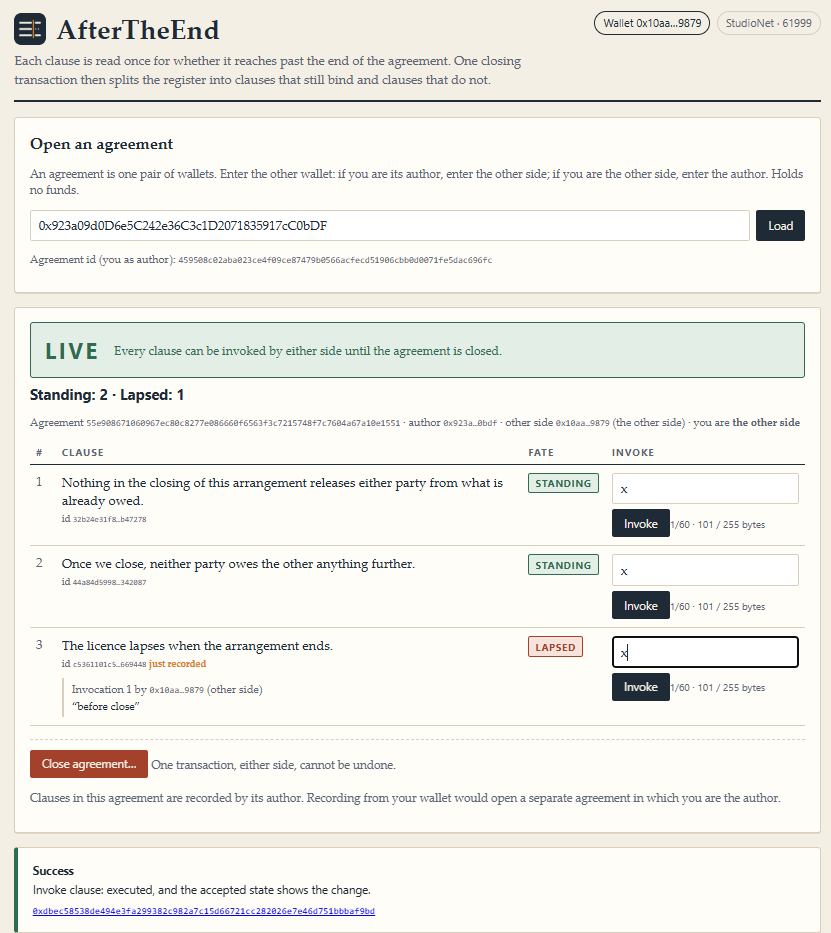
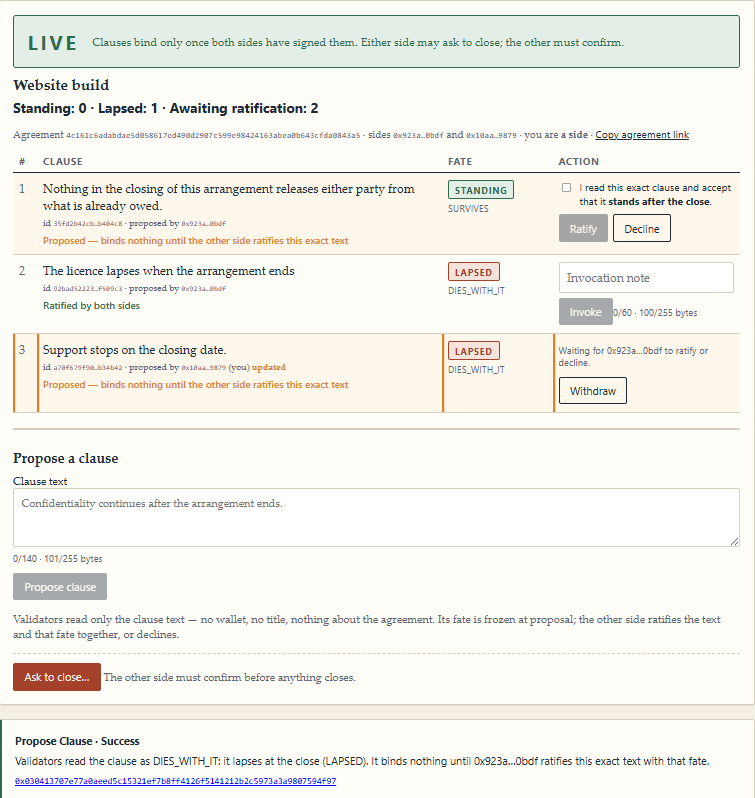
Add files via upload

Changed region(s): [[0.0, 0.0, 1.0, 1.0], [0.6093, 0.6617, 0.7007, 0.7218]]

diff --git a/RUNTIME_EVIDENCE.md b/RUNTIME_EVIDENCE.md
@@ -13,27 +13,65 @@ accepted state. A row not run says **NOT RUN**. A screenshot or a FINALIZED stat
 | | |
 |---|---|
 | Contract | [`0xC32AE2297C3bAB48DD5C19E7Ea126E2b03d83451`](https://explorer-studio.genlayer.com/address/0xC32AE2297C3bAB48DD5C19E7Ea126E2b03d83451) |
-| Deploy tx | [`0x27414268…7002c554`](https://explorer-studio.genlayer.com/tx/0x27414268a5d60554c86fd65d6bb2a99a301f2ab42ca17ec8020b6cc67002c554) |
+| Deploy tx (FINALIZED, constructor) | [`0x27414268…7002c554`](https://explorer-studio.genlayer.com/tx/0x27414268a5d60554c86fd65d6bb2a99a301f2ab42ca17ec8020b6cc67002c554) |
 | Source | `contracts/ClauseAccord.py`, SHA-256 in `SOURCE_SHA256.txt` |
 | Side A | `0x923a09d0D6e5C242e36C3c1D2071835917cC0bDF` |
 | Side B | `0x10AaA763DB250e4856210Dfb91B57780F60e9879` |
 
-Run: **NOT RUN yet.** Planned rows:
+Run date 2026-10-07, app at https://after-the-end-chi.vercel.app, MetaMask on StudioNet. **15 transactions** sent from the
+app, all FINALIZED with GenVM result SUCCESS and consensus Accepted. Each result below was read back by the app from the
+accepted state before it reported success (`src/lib/verify.ts`).
 
-| # | Wallet | Action in the app | Expected | Tx hash | Result |
-|---|---|---|---|---|---|
-| 1 | A | Open agreement with B, title `Website build` | LIVE | NOT RUN | |
-| 2 | A | Propose S4 | PROPOSED · STANDING | NOT RUN | |
-| 3 | A | Propose E1 | PROPOSED · LAPSED | NOT RUN | |
-| 4 | B | Ratify S4 (text hash) | RATIFIED | NOT RUN | |
-| 5 | B | Ratify E1 (text hash) | RATIFIED | NOT RUN | |
-| 6 | B | Propose E2, left unratified | PROPOSED · LAPSED | NOT RUN | |
-| 7 | A | Invoke E1 `before close` | PENDING | NOT RUN | |
-| 8 | B | Acknowledge invocation 1 `Noted` | ACKNOWLEDGED | NOT RUN | |
-| 9 | A | Ask to close | CLOSING | NOT RUN | |
-| 10 | B | Confirm close | CLOSED; E2 VOID; E1 not invocable | NOT RUN | |
-| 11 | B | Invoke S4 `after close` | PENDING | NOT RUN | |
+### Agreement 1 — `Website build`
 
[1 lines of base64/hex data omitted]
+https://after-the-end-chi.vercel.app/?a=4c161c6adabdae5d058617ed490d2907c599e98424163abea0b643cfda0843a5
+
+| # | Wallet | Action in the app | Tx hash | Result |
+|---|---|---|---|---|
+| 1 | A | Open agreement with B, title `Website build` | [`0x8a8387b0…b0ecd133`](https://explorer-studio.genlayer.com/tx/0x8a8387b07f051d3dbf7d7d1782ca486016e20fa4a1b3d91abc3c2c1bb0ecd133) | **LIVE** |
+| 2 | A | Propose S4 `Nothing in the closing of this arrangement releases either party from what is already owed.` | [`0x7de0f592…48d609d9`](https://explorer-studio.genlayer.com/tx/0x7de0f592f86984c6b7564e06b83a046e749c3712a03a7acb4d4e8d4a48d609d9) | **SURVIVES → STANDING**, PROPOSED (clause `35fd2b42…18b404c8`) |
+| 3 | A | Propose E1 `The licence lapses when the arrangement ends` | [`0x3d61f48d…6fb0d10c`](https://explorer-studio.genlayer.com/tx/0x3d61f48d58403f0d9ffbcb2dcdf8c38b1aa3c8085175fac3cb03c6fb6fb0d10c) | **DIES_WITH_IT → LAPSED**, PROPOSED (clause `92bad522…1f509c3`) |
+| 4 | B | Ratify E1 (signs text hash `07b77b06…1c2926a5`) | [`0xf381833a…cec49b7e`](https://explorer-studio.genlayer.com/tx/0xf381833a7fcd14b174811fdd0ce7b7ff73d491d32f515c935163cf5ccec49b7e) | **RATIFIED**; Lapsed: 1 |
+| 5 | B | Propose E2 `Support stops on the closing date.` | [`0x03041370…07594f97`](https://explorer-studio.genlayer.com/tx/0x030413707e77a0aeed5c15321ef7b8ff4126f5141212b2c5973a3a9807594f97) | **DIES_WITH_IT → LAPSED**, PROPOSED (clause `a70f679f…d5b34b42`) |
+| 6 | A | Invoke E1 `before close` | [`0x253f4221…cb284aae`](https://explorer-studio.genlayer.com/tx/0x253f422125253c42920d117cda2880c19c68a59b232d6874d3d23fd8cb284aae) | invocation 1 **PENDING** |
+| 7 | B | Acknowledge invocation 1 `Noted` | [`0x42214252…1db23235`](https://explorer-studio.genlayer.com/tx/0x42214252b081a2de0d509f41c80e64b9f53d846423400d219f553c091db23235) | **ACKNOWLEDGED** |
+| 8 | A | Ask to close (dialog listed E1 to lapse, S4 and E2 to become void) | [`0x78e7204d…c8d82953`](https://explorer-studio.genlayer.com/tx/0x78e7204db15d6de33e3e54e2e32d086ea9f49f1f0434ef8ccb53896ac8d82953) | **CLOSING** — nothing closed yet |
+| 9 | B | Confirm close | [`0xb77e6d2f…84898f17`](https://explorer-studio.genlayer.com/tx/0xb77e6d2f474d2adc9540cc509c02a902b974fc7b43823e76e0047ef284898f17) | **CLOSED** (requested by A, confirmed by B); S4 and E2 **VOID**; E1 no longer invocable |
+
+S4 was proposed by A but never ratified by B, so at the close it became **VOID** although its fate was STANDING: a clause
+the other side did not sign never binds, whatever the model read. E1 was ratified, so it bound until the close and then
+lapsed; its Invoke button is disabled with the contract's sentence *This clause lapsed when the agreement was closed*
+(screenshot 3 — a call the app knows will revert is not sent).
+
+### Agreement 2 — `Website build, phase two`
+
[1 lines of base64/hex data omitted]
+https://after-the-end-chi.vercel.app/?a=b396475c9ec9dcd56398a205c8e9646830d1c4415bdfdf4a3bdb59e43ab98bfc
+(the same two wallets, a second agreement under another title).
+
+| # | Wallet | Action in the app | Tx hash | Result |
+|---|---|---|---|---|
+| 10 | A | Open agreement with B, title `Website build, phase two` | [`0x7691053f…972514a8`](https://explorer-studio.genlayer.com/tx/0x7691053f9b6a4d1611345dc5d026f2951166ec38761e2b57652be0bb972514a8) | **LIVE** |
+| 11 | A | Propose S4 (same text as row 2) | [`0x09904fac…2c5bdeb0`](https://explorer-studio.genlayer.com/tx/0x09904fac733b4221824f384cad3bbc95d7bc5807887104fa9e4bb4af2c5bdeb0) | **SURVIVES → STANDING** again, PROPOSED (clause `02aeed1f…aca83038`) |
+| 12 | B | Ratify S4 (signs text hash `bb818a9b…2ced60ba`) | [`0xc4832899…00657f8b`](https://explorer-studio.genlayer.com/tx/0xc48328993b3ae16c18c87009505b9987361efe13775656e337d7db9e00657f8b) | **RATIFIED**; Standing: 1 |
+| 13 | A | Ask to close | [`0xd341ff4c…d0ac99d3`](https://explorer-studio.genlayer.com/tx/0xd341ff4c645af97927d63df93181722d404af8ada256f8dce315edd0d0ac99d3) | **CLOSING** |
+| 14 | B | Confirm close | [`0xea5e8a22…17f60376`](https://explorer-studio.genlayer.com/tx/0xea5e8a2297beb4918f6e2278cc25f40cf79061e5a20fe8952fdca1b917f60376) | **CLOSED**; S4 *stands after the close* |
+| 15 | B | Invoke S4 `after close` | [`0xb0a3a55a…8d10ca25`](https://explorer-studio.genlayer.com/tx/0xb0a3a55a67d8ccea2f432afd71b45699085e27b2941ef86eda4fd6728d10ca25) | **success after the close**: invocation 1 PENDING, waiting for A's answer |
+
+Together: after a close both sides signed, the ratified STANDING clause is still invocable (row 15) and the ratified
+LAPSED clause is not (row 9, screenshot 3). S4 got the same reading on both proposals (rows 2 and 11).
+
+### Screenshots (`docs/evidence/`)
+
+1. `docs/evidence/1-before-close.png` — agreement 1 seen by B before the close: S4 and E2 *Proposed — binds nothing until
+   the other side ratifies*, E1 *Ratified by both sides*; B sees Ratify/Decline on A's proposal and Withdraw on its own.
+2. `docs/evidence/2-close-dialog.png` — A's *Ask to close* dialog: E1 will lapse, S4 and E2 will become void, nothing
+   closes until B confirms.
+3. `docs/evidence/3-after-close.png` — agreement 1 CLOSED by both sides: E1's Invoke disabled with the contract's
+   sentence; S4 and E2 void.
+4. `docs/evidence/4-standing-after-close.png` — agreement 2 CLOSED: S4 *stands after the close; it is still open to
+   invoke*, with the invocation made after the close.
 
 ## 1.0 — SurvivalGate (single-signature model, replaced by 2.0)
 

diff --git a/README.md b/README.md
@@ -2,7 +2,7 @@ AfterTheEnd does not ask whether a clause is valid, and it does not check a clau
 
 <p align="center"><img src="logo.png" alt="AfterTheEnd logo" width="128"></p>
 
-<p align="center"><img src="docs/evidence/v1-1-before-close.png" alt="Before the close" width="45%"> <img src="docs/evidence/v1-3-after-close.png" alt="After the close" width="45%"></p>
+<p align="center"><img src="docs/evidence/3-after-close.png" alt="After a close both sides signed: the LAPSED clause is blocked" width="45%"> <img src="docs/evidence/4-standing-after-close.png" alt="After the close: the STANDING clause is still invoked" width="45%"></p>
 
 # AfterTheEnd
 
@@ -82,7 +82,7 @@ contract's exact sentence. A live meter blocks any text over the 255-byte callda
 | `contracts/ClauseAccord.py` | the contract (frozen; SHA-256 in `SOURCE_SHA256.txt`) |
 | `LOCKED_SPEC.md` | the design that must not change |
 | `TEST_PLAN.md` / `TESTING.md` | cases, what is automated, what was run by hand, what is not proven |
-| `RUNTIME_EVIDENCE.md` | StudioNet transactions, one hash per row (2.0 and the earlier 1.0 runs) |
+| `RUNTIME_EVIDENCE.md` | StudioNet transactions, one hash per row: 15 for 2.0, plus the earlier 1.0 runs |
 | `tests/contract/` | Direct Mode tests on the real py-genlayer SDK (model mocked) and the mutation list |
 | `tests/js/` | frontend logic tests (Python parity, ids, revert mirroring, receipts, postconditions, retry path) |
 | `tools/` | calldata size table, RPC calldata probe, source hash check, mutation runner |

diff --git a/TEST_PLAN.md b/TEST_PLAN.md
@@ -24,7 +24,11 @@ If a case gets the wrong label the rubric is **not** edited; the real result is 
 
 Open agreement (A) → propose S4 and E1 (A) → ratify both (B) → propose E2 and leave it unratified (B) →
 invoke E1 (A) → acknowledge it (B) → request close (A) → confirm close (B) → invoke S4 after the close (B).
-Expected: S4 STANDING, E1 LAPSED, E2 VOID after the close, E1 no longer invocable. Results: `RUNTIME_EVIDENCE.md`.
+Expected: S4 STANDING, E1 LAPSED, E2 VOID after the close, E1 no longer invocable.
+
+As run (`RUNTIME_EVIDENCE.md`): in agreement 1 S4 was left unratified and became VOID at the close, so the
+"STANDING still invocable after the close" step was run in a second agreement between the same wallets
+(propose S4 → ratify → request close → confirm close → invoke S4).
 
 ## 3. Deterministic cases (automated — `tests/contract/test_clauseaccord.py`)
 

diff --git a/TESTING.md b/TESTING.md
@@ -57,6 +57,10 @@ delayed" (no success); *Check again* after it applied reported success from the 
 
 Only what needs a real wallet, a real signature or a human eye. Results and hashes: `RUNTIME_EVIDENCE.md`.
 
+2.0 run on 2026-10-07: 15 transactions through the app on the contract above, two agreements between the same two
+wallets, all FINALIZED with SUCCESS, and 4 screenshots. Every label came out as expected (S4 STANDING twice, E1 and E2
+LAPSED).
+
 A call the app already knows will revert is **not** sent — the button is disabled with the contract's
 sentence — so its proof is a screenshot, not a hash.
 
